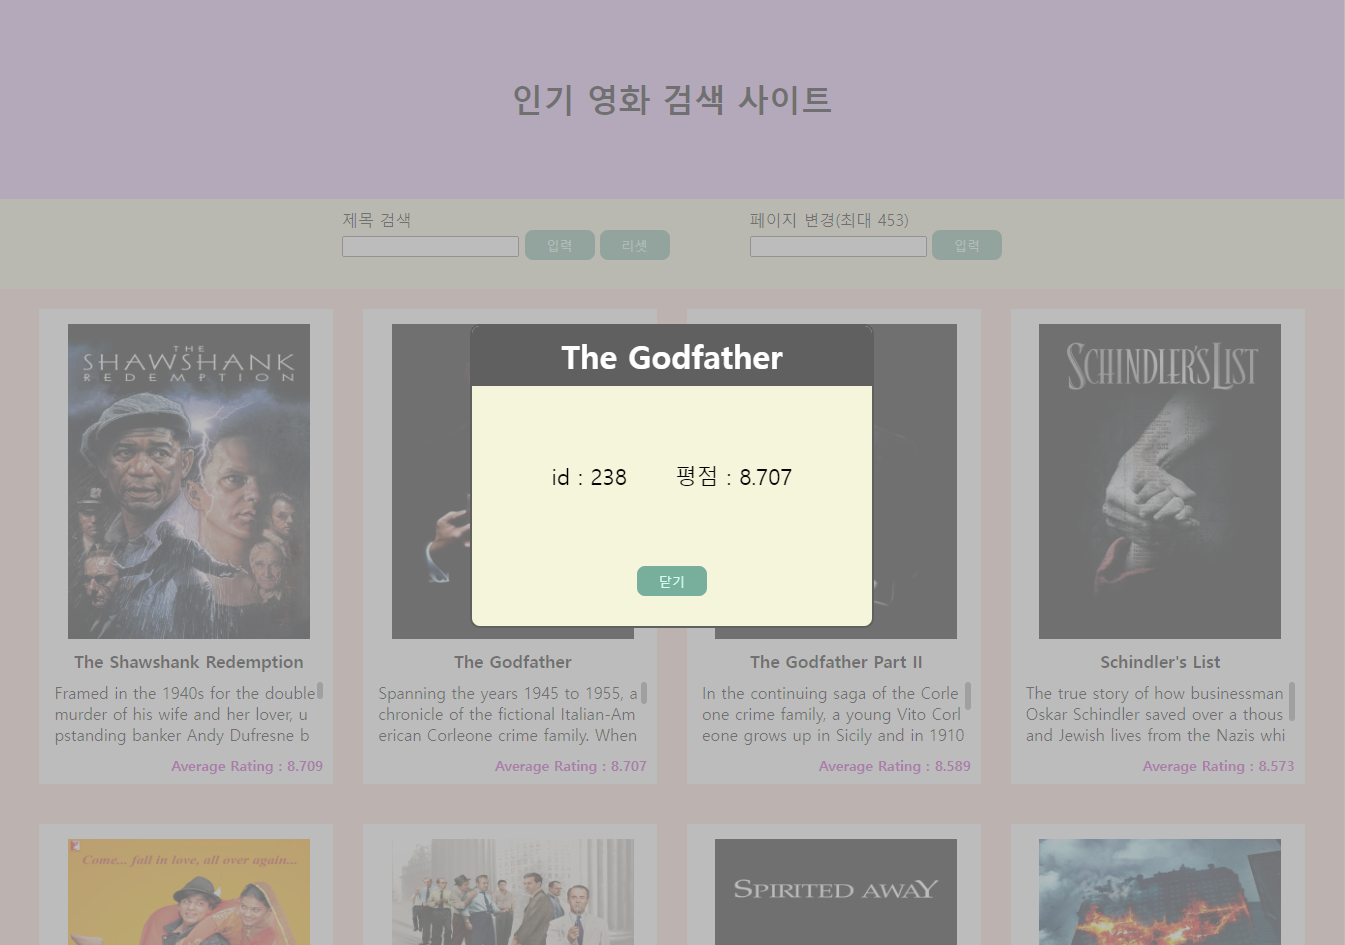
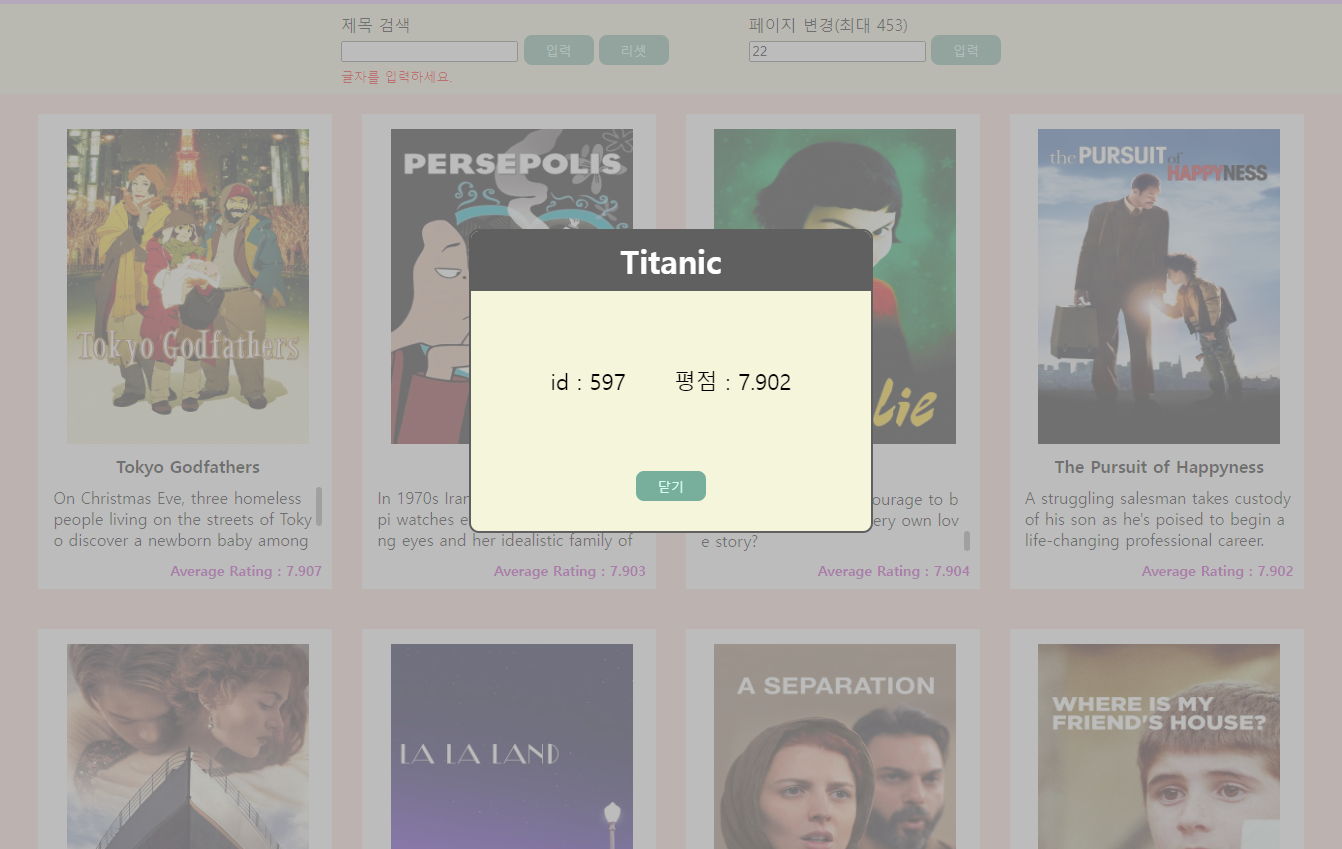
Readme 작성

diff --git a/README.md b/README.md
@@ -1,3 +1,52 @@
-## 메인화면
+### 메인화면
 
-- https://www.themoviedb.org/에서 인기 영화 API 가져와 시각적으로 정보 제공
+![메인화면](./readmeimg/메인%20화면.PNG)
+
+- https://www.themoviedb.org/ 에서 제공하는 인기 영화 API 활용
+
+### 페이지 변경
+
+![페이지변경](./readmeimg/페이지변경.PNG)
+
+- 직접 입력으로 페이지 변경
+
+### 페이지 내 검색
+
+![검색](./readmeimg/페이지내검색.PNG)
+
+### 상세정보 모달
+
+![모달](./readmeimg/모달.PNG)
+
+### 텍스트 슬라이드 애니메이션 적용
+
+![슬라이드](./readmeimg/슬라이드.gif)
+
+### 유효성 검사
+
+![유효성검사](./readmeimg/유효성%20검사.PNG)
+
+### dotenv 적용
+
+![dotenv](./readmeimg/dotenv.PNG)
+
+### 웹팩 및 바벨 적용
+
+![웹팩및바벨](./readmeimg/웹팩.PNG)
+
+### 모달 코드 스플리팅 적용
+
+![코드스플리팅](./readmeimg/네트워크2.PNG)
+
+- webpack을 활용한 dynamic import
+
+### Github Pages를 활용한 배포
+
+![workflow](./readmeimg/workflow.png)
+
+- 기존 yml 파일 수정 해 runner 환경에서 webpack 번들링 진행
+- URI : https://picoloman6.github.io/nbc_week2/
+
+### 최종 디렉토리 구조
+
+![디렉토리구조](./readmeimg/디렉토리%20구조.PNG)
